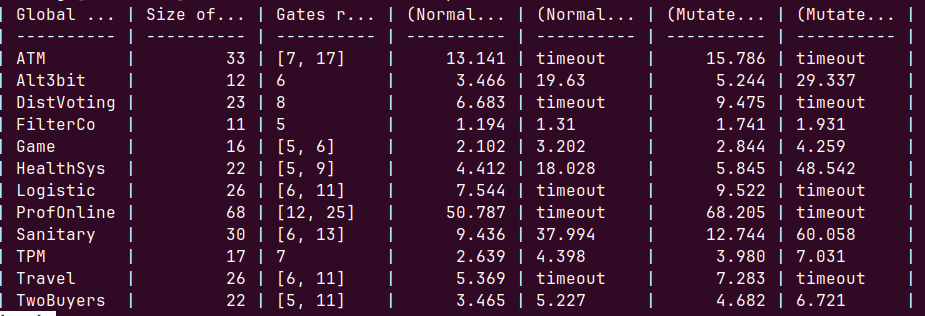
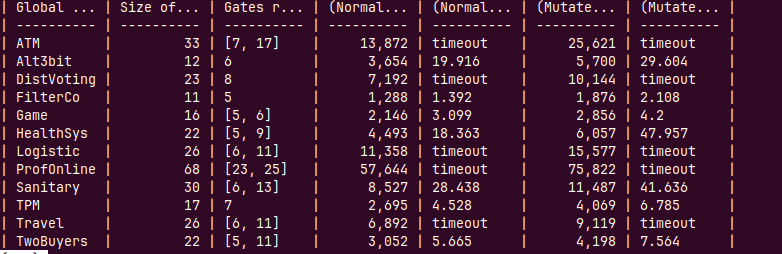
README update

diff --git a/README.md b/README.md
@@ -473,9 +473,7 @@ Its size is `33`. After projection, the number of gates
 in its local interactions ranges from `7` to `17`.
 With the optimization rule **Fail**,
 the average composition time across partitions
-for normalized local interactions is `13.141 ms`,
-and the overall average (including mutated interactions) 
-is `1.2` seconds. Without the **Fail** rule,
+for normalized local interactions is `13.872 ms`. Without the **Fail** rule,
 the composition process times out (after 60 seconds)
 for at least one partition.
 
@@ -483,8 +481,7 @@ Now consider the interaction `Game`,
 highlighted in red. Its size is `16`,
 and the projected local interactions contain
 either `5` or `6` gates. With the **Fail** optimization,
-the average composition time across partitions is `2.146 ms`
-(and `0.3` seconds overall). Without this optimization,
+the average composition time across partitions is `2.146 ms`. Without this optimization,
 the average duration across partitions
 increases to `3.099 ms`. These results illustrate
 that the **Fail** rule not only reduces the average
